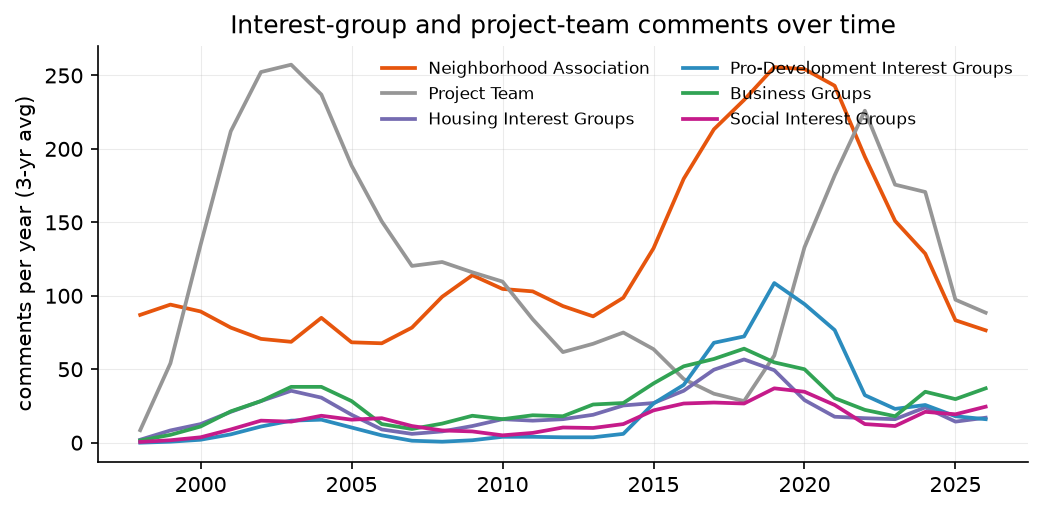
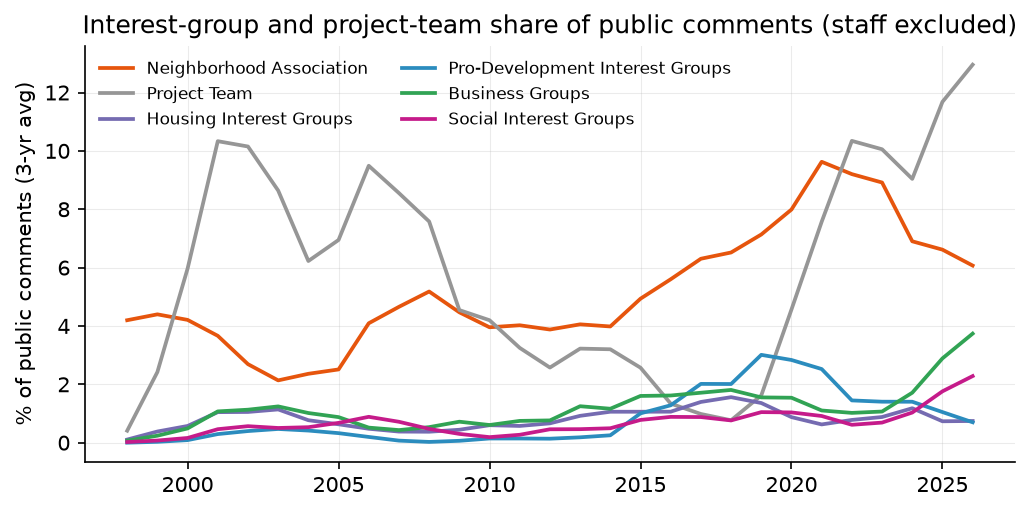
polarity_share includes imputed signs; groups_over_time as share of comments

diff --git a/pipeline/make_figures.py b/pipeline/make_figures.py
@@ -66,8 +66,11 @@ def fig_comments_by_year(com):
 
 
 def fig_polarity_share(com):
-    signed = com[com["sign"].isin(["+", "-"])]
-    g = signed.groupby("year")["sign"].value_counts().unstack(fill_value=0)
+    # stenographer sign where recorded, model/role-imputed otherwise
+    sign_all = com["sign"].fillna(com["sign_imputed"])
+    d = com.assign(sign_all=sign_all)
+    d = d[d["sign_all"].isin(["+", "-"])]
+    g = d.groupby("year")["sign_all"].value_counts().unstack(fill_value=0)
     g = g[(g["+"] + g["-"]) >= 100]  # years with too few signed comments mislead
     share = g["-"] / (g["+"] + g["-"])
     n = g.sum(axis=1)
@@ -75,9 +78,9 @@ def fig_polarity_share(com):
     ax.plot(share.index, share.values, color=NEG, lw=2)
     ax.scatter(share.index, share.values, s=10 + 40 * n / n.max(), color=NEG, zorder=3)
     ax.axhline(0.5, color="grey", lw=0.8, ls="--")
-    ax.set_ylabel("share of signed comments\nthat oppose")
+    ax.set_ylabel("share of polarized comments\nthat oppose")
     ax.set_ylim(0, 1)
-    ax.set_title("Opposition share among stenographer-signed public comments, staff excluded (point size ∝ volume)")
+    ax.set_title("Opposition share of public comments, recorded + imputed, staff excluded\n(point size ∝ volume)")
     fig.savefig(FIG / "polarity_share.png")
     plt.close(fig)
 
@@ -90,15 +93,17 @@ def fig_groups(com):
               "Housing Interest Groups": "#756bb1",
               "Pro-Development Interest Groups": "#2b8cbe",
               "Business Groups": "#31a354", "Social Interest Groups": "#c51b8a"}
-    g = (com[com["role_group"].isin(keep)]
-         .groupby(["year", "role_group"]).size().unstack(fill_value=0)
+    counts = (com[com["role_group"].isin(keep)]
+              .groupby(["year", "role_group"]).size().unstack(fill_value=0))
+    total = com.groupby("year").size()
+    g = (counts.div(total, axis=0)
          .rolling(3, center=True, min_periods=1).mean())
     fig, ax = plt.subplots(figsize=(8, 3.6))
     for col in keep:
         if col in g:
-            ax.plot(g.index, g[col], lw=1.8, color=colors[col], label=col)
-    ax.set_ylabel("comments per year (3-yr avg)")
-    ax.set_title("Interest-group and project-team comments over time")
+            ax.plot(g.index, 100 * g[col], lw=1.8, color=colors[col], label=col)
+    ax.set_ylabel("% of public comments (3-yr avg)")
+    ax.set_title("Interest-group and project-team share of public comments (staff excluded)")
     ax.legend(frameon=False, fontsize=8, ncol=2)
     fig.savefig(FIG / "groups_over_time.png")
     plt.close(fig)
